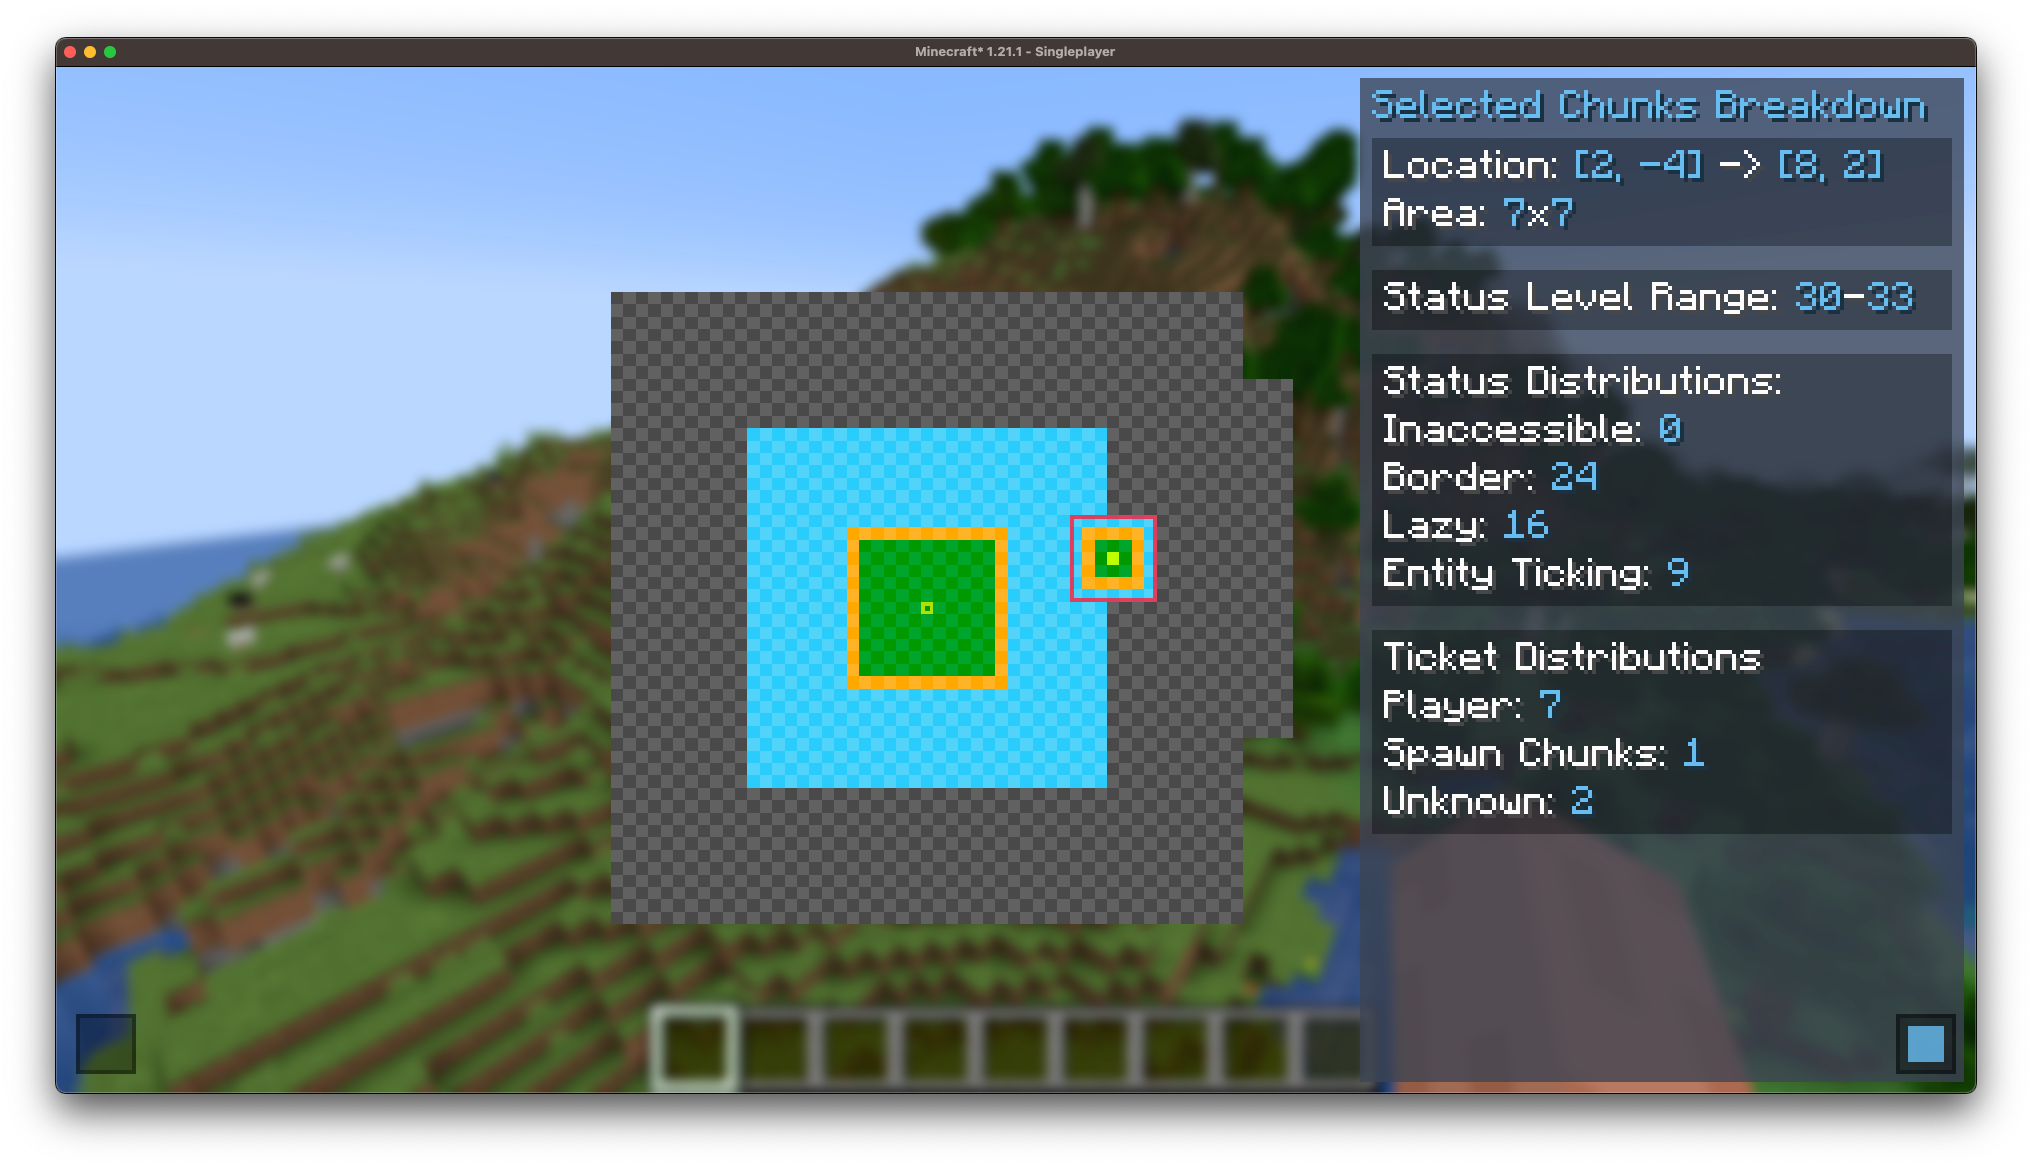
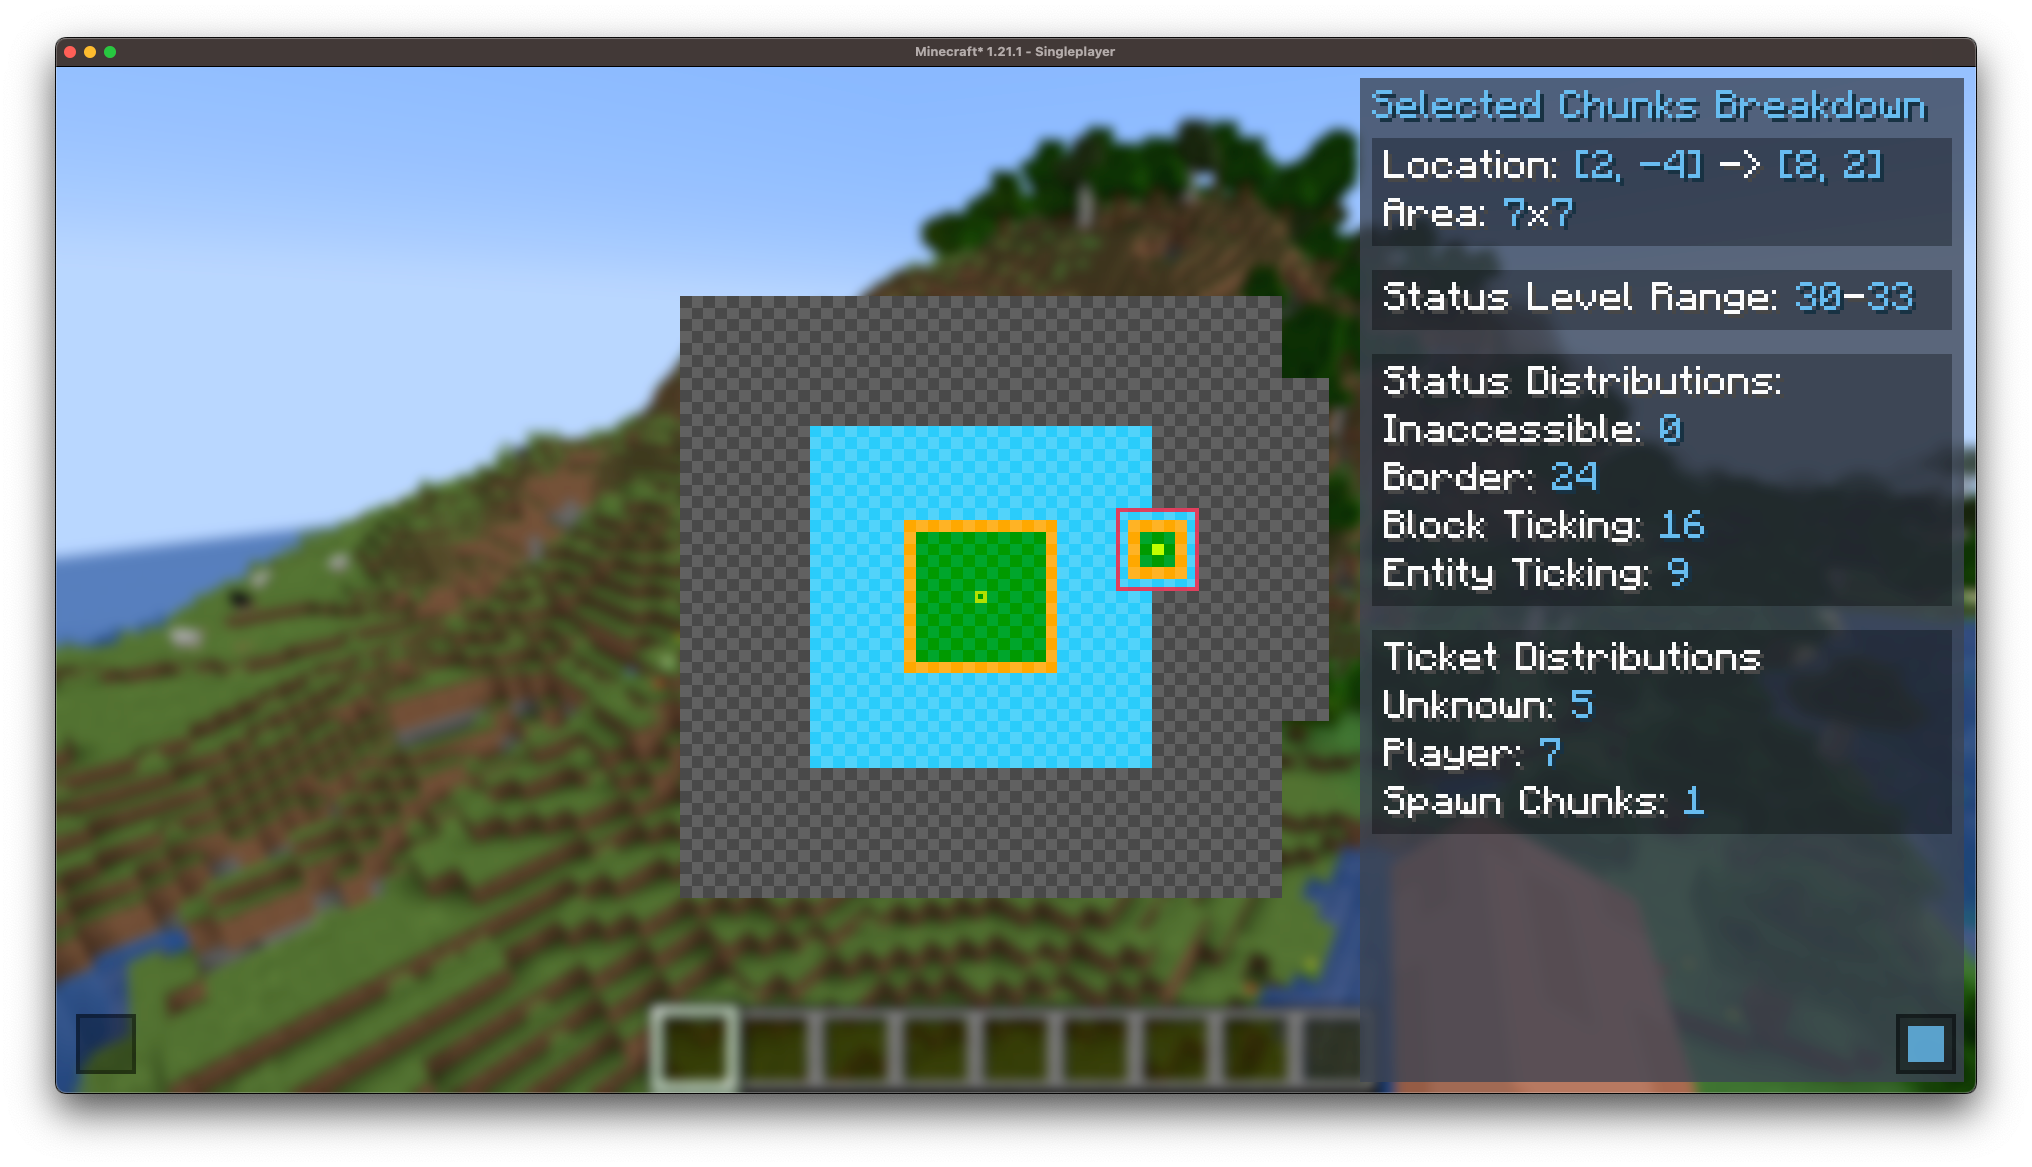
Update README

diff --git a/README.md b/README.md
@@ -1,4 +1,4 @@
-# ChunkDebug
+# <img src="./src/main/resources/assets/chunk-debug/icon.png" align="center" width="64px"/> ChunkDebug
 
 ## What is ChunkDebug?
 
@@ -10,6 +10,8 @@ the chunk world generation stage.
 ChunkDebug was originally made for [CarpetClient 1.12.2](https://github.com/X-com/CarpetClient).
 I have completely re-written the mod to support modern versions of Minecraft.
 I only plan on maintaining the mod for the **latest** version of Minecraft.
+
+![chunk_generation.gif](images/chunk_generation.gif)
 
 ## How to use ChunkDebug
 
@@ -43,11 +45,12 @@ The menu on the left contains all the options for ChunkDebug.
 This can be hidden by pressing `F1` or by toggling the button
 in the bottom left corner.
 
-
 At the top, you can change your minimap mode. 
 This can be configured to `No Minimap`, `Static Minimap`, where the 
 minimap will reflect what is currently rendering at the centre of the
 chunk map, and `Following Minimap`, where the minimap will follow your player. 
+
+![Chunk Minimap](images/chunk_minimap.png)
 
 Below this are your navigation controls, you can navigate to different
 dimensions. 
@@ -68,12 +71,29 @@ This is useful for debugging chunks that unload rapidly.
 
 ### Selection Menu
 
-You can make a selection on the chunk map by right-clicking, this will
+You can select chunks on the chunk map by right-clicking, this will
 highlight the chunk with a red outline, it will also bring up a menu
 on the right displaying all the relevant information for that chunk.
+This menu can be closed much like the settings menu with `F1` or the button in the bottom right.
 
 ![Chunk Selection Menu](images/chunk_selection_menu.png)
 
-The menu displays the location of the chunks, as well as the chunk status
+The menu displays the location of the chunks, as well as the chunk 
+status; 
+you can read more about what this means on the [Minecraft Wiki Page](https://minecraft.wiki/w/Chunk#Level_and_load_type).
+The separation of the `Status Level` and `Ticking Status Level` is due to the split of Simulation Distance and Render Distance.
+Below, all the tickets for the selected chunk are listed, including 
+the type of the ticket and the level. 
+Below that is the `Generation Stage` which is how far the chunk has generated.
+And finally, whether the chunk has been scheduled for unloading.
+
+You are also able to select multiple chunks by dragging right-click,
+this will highlight a region of chunks with a red outline.
 
 ![Chunk Selections Menu](images/chunk_selections_menu.png)
+
+The menu will now display less specific information but displays
+data for all the selected chunks.
+It shows the location and area of your selection. 
+The status level range of the chunks, as well as the status distributions of all the chunks.
+And finally a count of all the ticket types within the selection.
